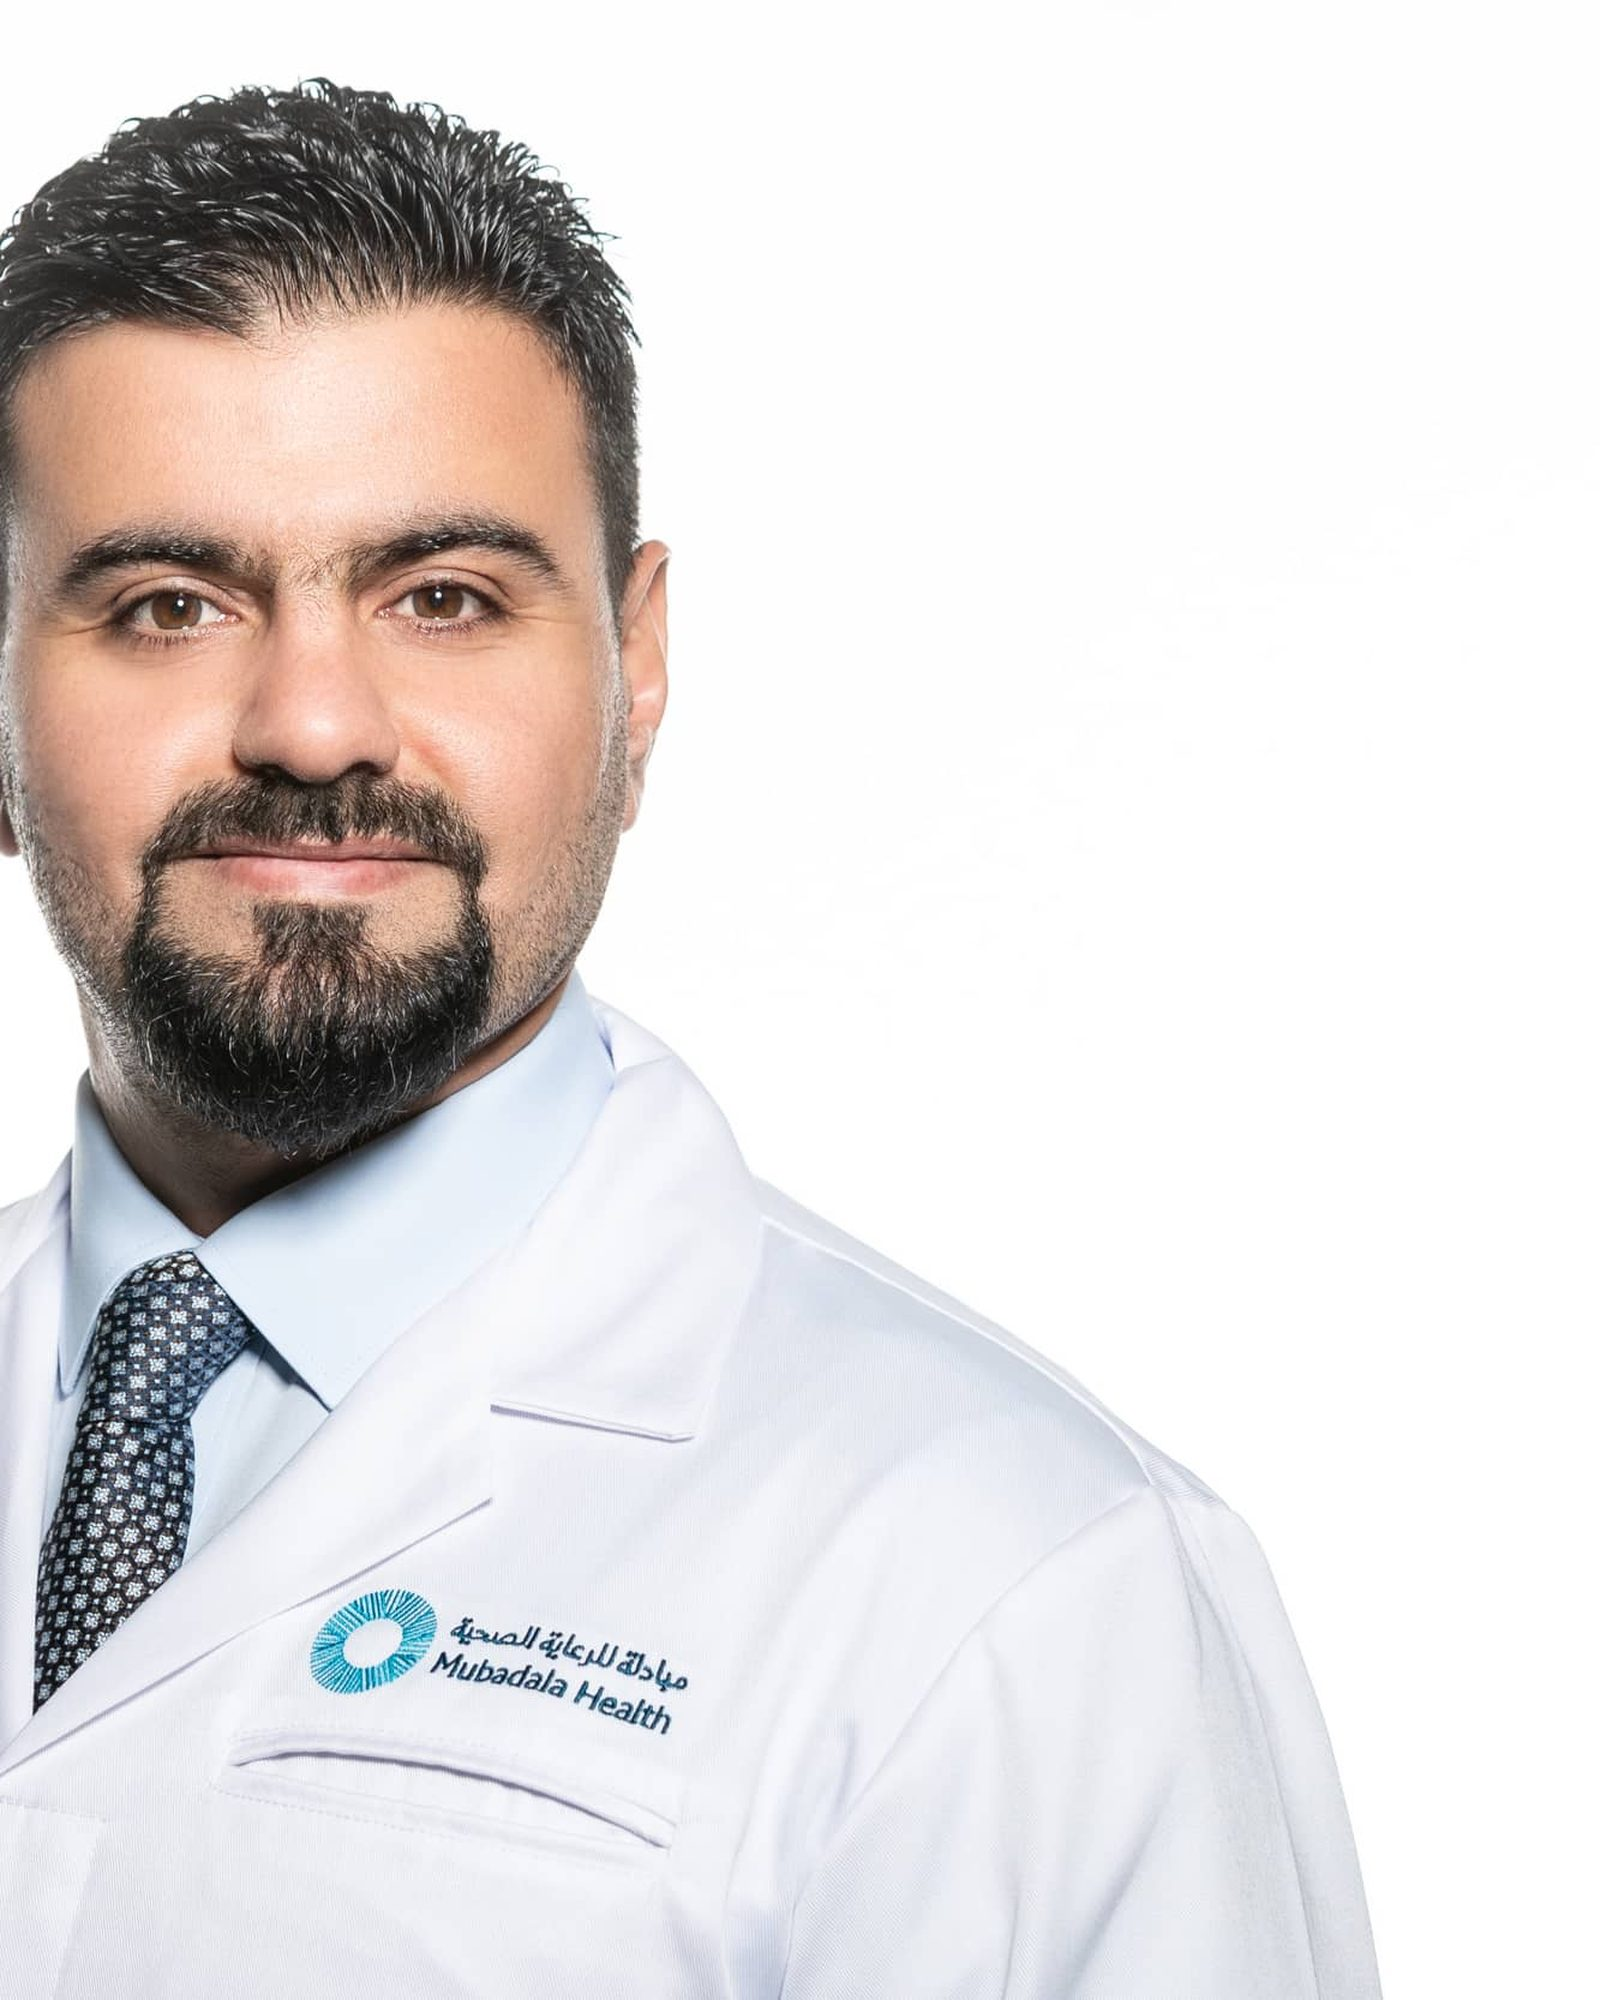
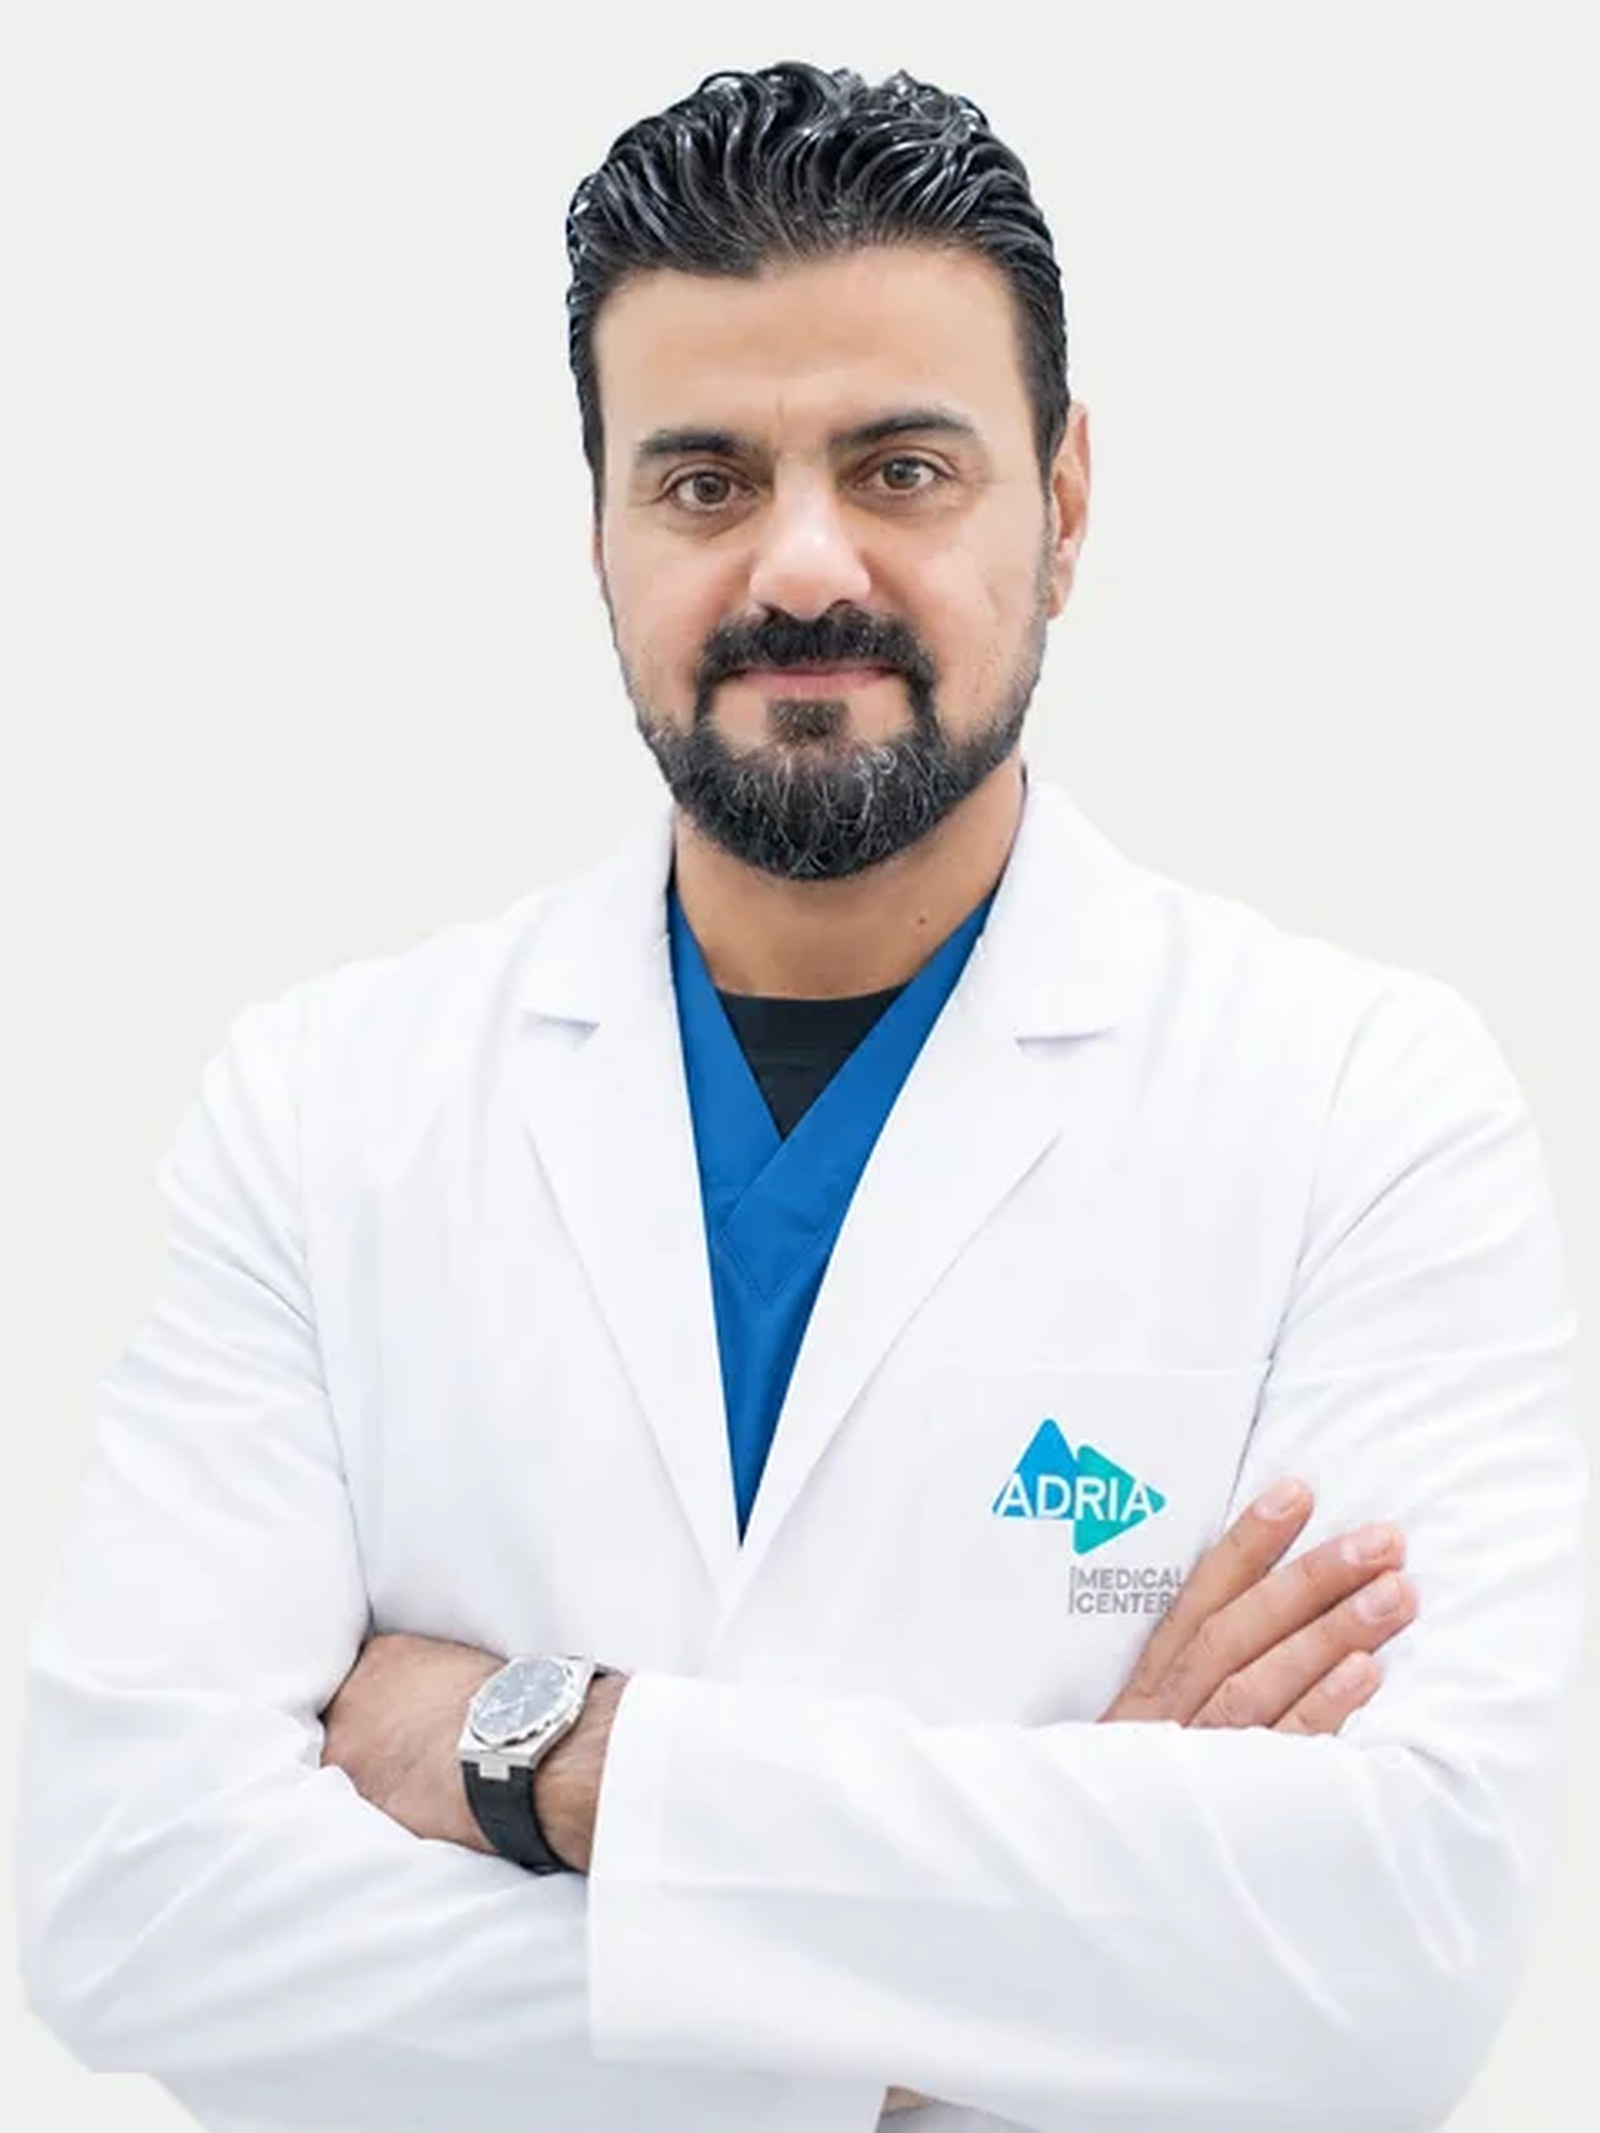
deploy: new hero portrait (Adria Medical photo) — all responsive sizes + corrected alt text
Replaces the v3 hero crops with the Adria white-coat portrait.
Tag: deploy-20260921-2152

diff --git a/index.html b/index.html
@@ -224,7 +224,7 @@
           srcset="/assets/img/hero-480.jpg 480w, /assets/img/hero-800.jpg 800w, /assets/img/hero-1200.jpg 1200w, /assets/img/hero-1600.jpg 1600w"
           sizes="(max-width:960px) 90vw, 44vw"
           width="800" height="1000" fetchpriority="high" decoding="async"
-          alt="Portrait of Dr. Shimas Salih, Consultant in Physical Medicine & Rehabilitation, at Healthpoint Hospital, Abu Dhabi">
+          alt="Dr. Shimas Salih, Consultant in Physical Medicine & Rehabilitation, at Adria Medical, Abu Dhabi">
         <span class="float-chip"><svg viewBox="0 0 256 256" aria-hidden="true"><use href="#crest"/></svg>
           <span data-en="One visit: assessment · ultrasound · intervention" data-ar="زيارة واحدة: تقييم · موجات · إجراء">One visit: assessment · ultrasound · intervention</span></span>
       </figure>
